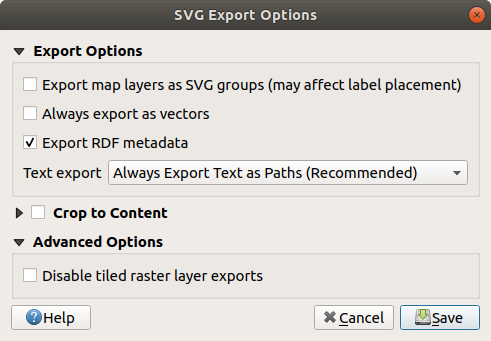
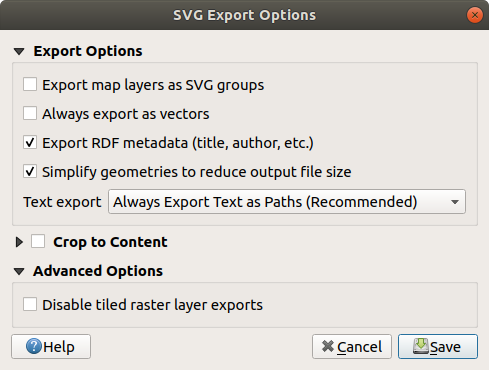
Describe layout export options and screenshots update (#4483)
Update layout export options using a step-like style and sorting the options according to GUI

diff --git a/source/docs/user_manual/print_composer/create_output.rst b/source/docs/user_manual/print_composer/create_output.rst
@@ -49,7 +49,7 @@ are:
 
 * the :ref:`Export settings <layout_export_settings>` of the :guilabel:`Layout`
   panel, such as :guilabel:`Export resolution`, :guilabel:`Print as raster`,
-  :guilabel:`Always export as vectors` or :guilabel:`Save world file`;
+  :guilabel:`Always export as vectors` or :guilabel:`Save world file`;
 * the :guilabel:`Exclude page from exports` in the :ref:`page item properties
   <page_properties>` panel;
 * the :guilabel:`Exclude item from exports` in the :ref:`item properties
@@ -61,32 +61,44 @@ are:
 Export as Image
 ===============
 
-Clicking the |saveMapAsImage| :sup:`Export as image` icon will ask you to
-select the image format and enter the filename to use to export the print layout:
-in the case of multi-page composition, each page will be exported to a file with
-the given name appended with the page number.
+To export a layout as an image:
 
-In the next :guilabel:`Image Export Options` dialog, you can optionally
-override the print layout resolution and the exported page dimensions
-(set in :guilabel:`Layout` panel).
+#. Click the |saveMapAsImage| :sup:`Export as image` icon
+#. Select the image format, the folder and filename to use. If the layout
+   contains more than one page, each page will be exported to a file with the
+   given filename with the page number appended.
+#. In the next :guilabel:`Image Export Options` dialog:
 
-.. index:: Crop layout to content
-.. _crop_to_content:
+   * You can override the print layout :guilabel:`Export resolution` and the
+     exported page dimensions (as set in :guilabel:`Layout` panel).
+   * Image rendering can also be improved with the :guilabel:`Enable
+     antialiasing` option.
+   * If you want to export your layout as a **georeferenced image** (e.g., to
+     share with other projects), check the |unchecked| :guilabel:`Generate
+     world file` option and an *ESRI World File* with the same name as the page on which the
+     :ref:`reference map <reference_map>` set in the :guilabel:`Layout` panel is
+     placed will be created along with the export(s).
+     This option can also be checked by default in the :ref:`layout panel
+     <layout_panel>`.
 
-By checking |checkbox| :guilabel:`Crop to content` option, the image output
-by the layout will include the minimal area enclosing all the items (map,
-legend, scale bar, shapes, label, image...) of each page of the composition:
 
-* If the composition includes a single page, then the output is resized to
-  include EVERYTHING on the composition. The page can then be reduced or
-  extended to all items depending on their position (on, above, below, left or
-  right of the page).
-* In case of a multi-page layout, each page will be resized to include items in
-  its area (left and right sides for all pages, plus top for the first page and
-  bottom for the last page). Each resized page is exported to a separate file.
+   .. index:: Crop layout to content
+   .. _crop_to_content:
 
-The :guilabel:`Crop to content` dialog also allows to add some margins around
-the cropped bounds.
+   * By checking |checkbox| :guilabel:`Crop to content` option, the image output
+     by the layout will include the minimal area enclosing all the items (map,
+     legend, scale bar, shapes, label, image...) of each page of the composition:
+
+     * If the composition includes a single page, then the output is resized to
+       include EVERYTHING on the composition. The page can then be reduced or
+       extended to all items depending on their position (on, above, below, left or
+       right of the page).
+     * In case of a multi-page layout, each page will be resized to include items in
+       its area (left and right sides for all pages, plus top for the first page and
+       bottom for the last page). Each resized page is exported to a separate file.
+
+     The :guilabel:`Crop to content` dialog also lets you add margins around
+     the cropped bounds.
 
 .. _figure_layout_output_image:
 
@@ -107,15 +119,9 @@ the cropped bounds.
  Use transparency-compatible formats like :file:`.TIFF` or :file:`.PNG` in such
  a case.
 
-If you need to export your layout as a **georeferenced image** (e.g., to share
-with other projects), check the |unchecked| :guilabel:`Generate world file`
-option and a world file named like the page on which the map reference set in
-:guilabel:`Layout` panel is placed will be created along the export(s).
-This option can also be checked by default in the :ref:`layout panel
-<layout_panel>`.
-
-When needed, images rendering can also be improved with the :guilabel:`Enable
-antialiasing` option.
+.. note:: When supported by the format (eg, :file:`PNG` does) and the
+ underlying Qt library, the exported image may include :ref:`project metadata
+ <project_metadata>` (author, title, date, description...)
 
 
 .. _export_layout_svg:
@@ -123,23 +129,46 @@ antialiasing` option.
 Export as SVG
 =============
 
-With |saveAsSVG| :sup:`Export as SVG`, you also need to fill the filename (used
-as a basename for all files in case of multi-page composition) and then can
-apply |checkbox| :guilabel:`Crop to content` :ref:`option <crop_to_content>`.
+To export a layout as SVG:
 
-The SVG export options dialog also allows to override the layout default export
-and offers other settings:
+#. Click the |saveAsSVG| :sup:`Export as SVG` icon
+#. Fill in the path and filename (used as a base name for all the
+   files in case of multi-page composition)
+#. In the next :guilabel:`SVG Export Options` dialog, you can override the
+   layout default :ref:`export settings <layout_export_settings>` or configure
+   new ones:
 
-* |unchecked|:guilabel:`Export map layers as SVG groups`: may affect label
-  placement.
-* |checkbox|:guilabel:`Render map labels as outlines`: unchecking this will
-  allow you to edit labels as texts in vector illustration software.
-* |unchecked|:guilabel:`Always export as vectors`: some rendering options
-  require items to be rasterized for a better rendering. Check this option to
-  keep the objects as vectors with the risk that the appearance of the output
-  file may not match the print layout preview (for more details, see
-  :ref:`layout_export_settings`).
-* |checkbox|:guilabel:`Export RDF metadata`.
+   * |unchecked| :guilabel:`Export map layers as SVG groups`: exported items are
+     grouped within layers whose name matches the layer names from QGIS, making
+     it much easier to understand the contents of the document.
+   * |unchecked| :guilabel:`Always export as vectors`: some rendering options
+     require items to be rasterized for a better rendering. Check this option to
+     keep the objects as vectors with the risk that the appearance of the output
+     file may not match the print layout preview (for more details, see
+     :ref:`layout_export_settings`).
+   * |checkbox| :guilabel:`Export RDF metadata` of the document such as the
+     title, author, date, description...
+   * |checkbox| :guilabel:`Simplify geometries to reduce output file size`: this
+     avoids exporting ALL geometry vertices, which can result in a ridiculously
+     complex and large export file size that could fail to load in other applications.
+     Geometries will be simplified while exporting the layout in order to remove
+     any redundant vertices which are not discernably different at the export
+     resolution (e.g. if the export resolution is ``300 dpi``, vertices that are
+     less than ``1/600 inch`` apart will be removed).
+   * Set the :guilabel:`Text export`: controls whether text labels are exported
+     as proper text objects (:guilabel:`Always export texts as text
+     objects`) or as paths only (:guilabel:`Always export texts as paths`).
+     If they are exported as text objects, they can be edited in external
+     applications (e.g. Inkscape) as normal text. BUT the side effect is that
+     the rendering quality is reduced, AND there are issues with rendering when
+     certain text settings like buffers are in place. That’s why exporting as
+     paths is recommended.
+   * Apply |checkbox| :guilabel:`Crop to content` :ref:`option <crop_to_content>`
+   * |unchecked| :guilabel:`Disable tiled raster layer exports`: When exporting
+     files, QGIS uses a built-in raster layer tiled rendering that saves memory.
+     Sometimes, this can cause visible "seams" in the rasters
+     for generated files. Checking this option would fix that, at the cost of a
+     higher memory usage during exports.
 
 .. _figure_layout_output_svg:
 
@@ -160,10 +189,45 @@ and offers other settings:
 Export as PDF
 =============
 
-The |saveAsPDF| :sup:`Export as PDF` tool exports all the composition pages
-into a single PDF file. Like the other formats, exporting to :file:`.PDF`
-provides means to override some of the layout :ref:`export settings
-<layout_export_settings>`.
+To export a layout as PDF:
+
+#. Click the |saveAsPDF| :sup:`Export as PDF` icon
+#. Fill in the path and filename: unlike the other tools, all the
+   pages in the layout are exported to a single PDF file.
+#. In the next :guilabel:`PDF Export Options` dialog, you can override the
+   layout default :ref:`export settings <layout_export_settings>` or configure
+   new ones:
+
+   * |unchecked| :guilabel:`Always export as vectors`: some rendering options
+     require items to be rasterized for a better rendering. Check this option to
+     keep the objects as vectors with the risk that the appearance of the output
+     file may not match the print layout preview (for more details, see
+     :ref:`layout_export_settings`).
+   * |checkbox| :guilabel:`Append georeference information`
+   * |checkbox| :guilabel:`Export RDF metadata` of the document such as the
+     title, author, date, description...
+   * Set the :guilabel:`Text export`: controls whether text labels are exported
+     as proper text objects (:guilabel:`Always export texts as text
+     objects`) or as paths only (:guilabel:`Always export texts as paths`).
+     If they are exported as text objects then they can be edited in external
+     applications (e.g. Inkscape) as normal text. BUT the side effect is that
+     the rendering quality is decreased, AND there’s issues with rendering when
+     certain text settings like buffers are in place. That’s why exporting as
+     paths is recommended.
+   * |unchecked| :guilabel:`Create Geospatial PDF (GeoPDF)`
+   * |unchecked| :guilabel:`Disable tiled raster layer exports`: When exporting
+     files, QGIS uses a built-in raster layer tiled rendering that saves memory.
+     Sometimes, this can cause visible "seams" in the rasters
+     for generated files. Checking this option would fix that, at the cost of a
+     higher memory usage during exports.
+   * |checkbox| :guilabel:`Simplify geometries to reduce output file size`: this
+     avoids exporting ALL geometry vertices, which can result in a ridiculously
+     complex and large export file size that could fail to load in other applications.
+     Geometries will be simplified while exporting the layout in order to remove
+     any redundant vertices which are not discernably different at the export
+     resolution (e.g. if the export resolution is ``300 dpi``, vertices that are
+     less than ``1/600 inch`` apart will be removed).
+
 
 .. _figure_layout_output_pdf:
 

diff --git a/source/docs/user_manual/introduction/qgis_configuration.rst b/source/docs/user_manual/introduction/qgis_configuration.rst
@@ -1042,6 +1042,8 @@ the global predefined scales.
 
    General tab of Project Properties dialog
 
+.. _project_metadata:
+
 Metadata Properties
 -------------------
 
